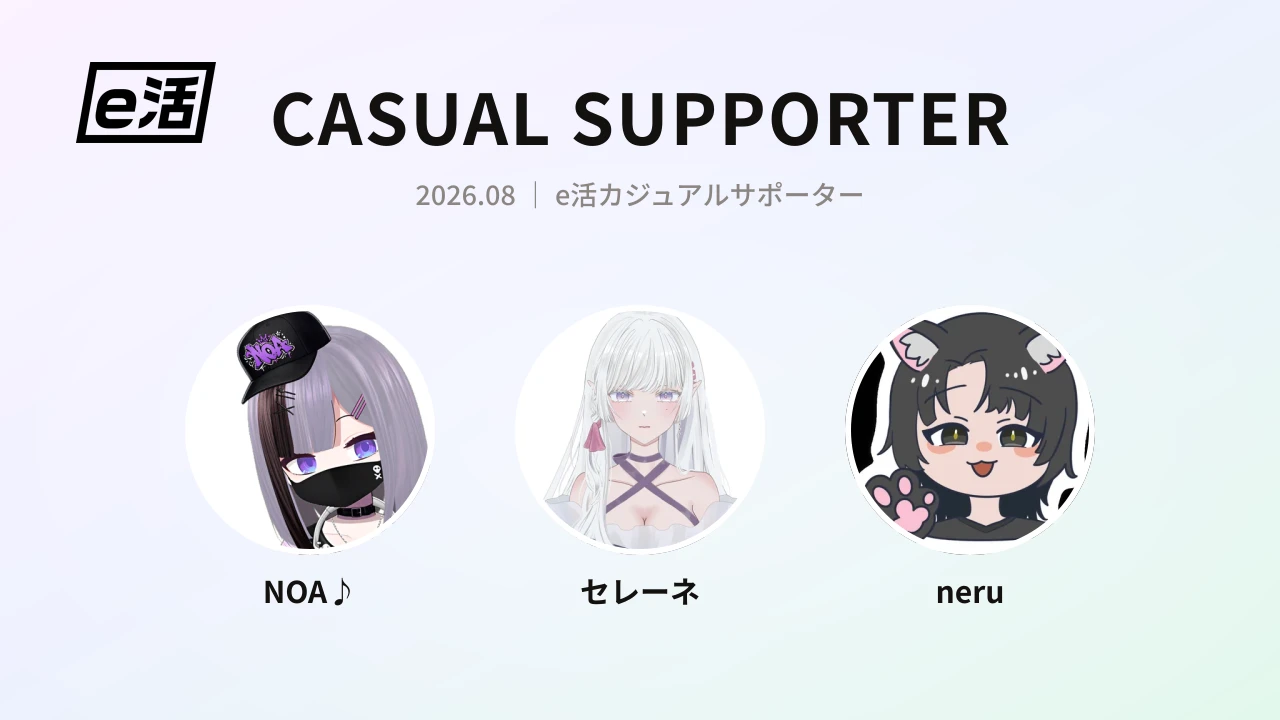
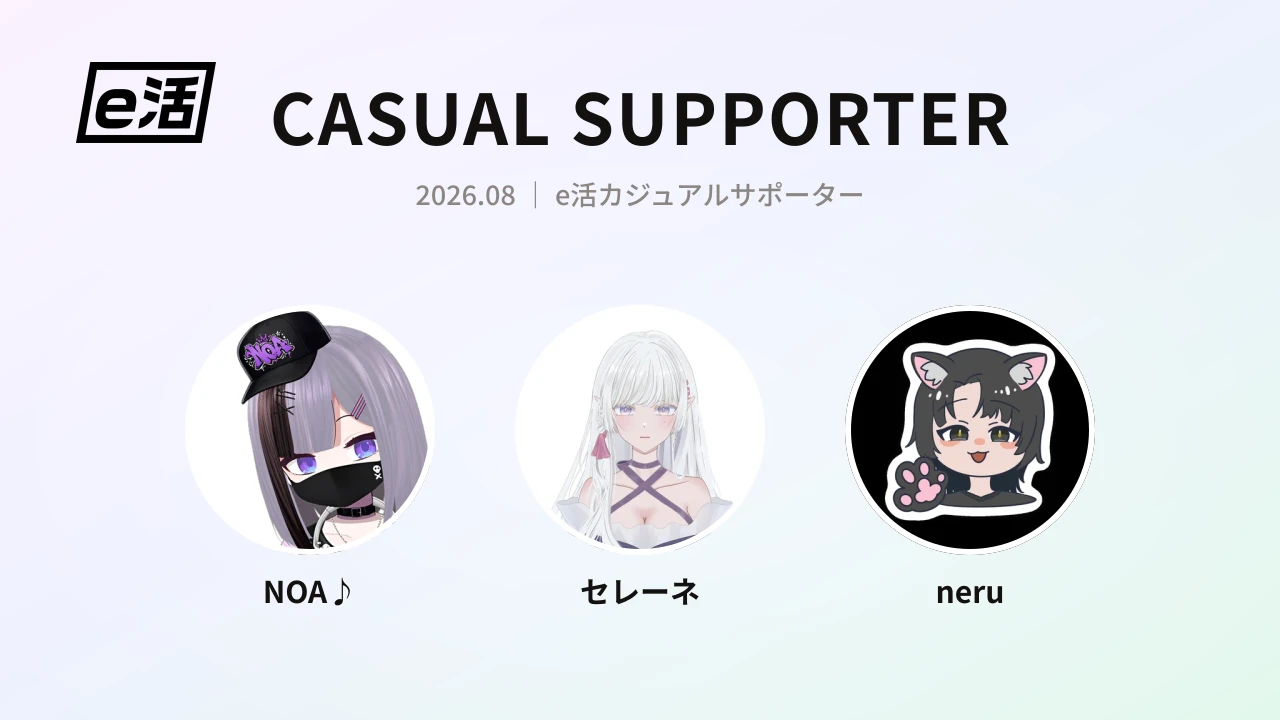
アイコンに丸表示用の余白(pad/padColor)を足せるようにして、セレーネとneruを切れないように直した

Changed region(s): [[0.6562, 0.4278, 0.875, 0.7639], [0.4062, 0.4278, 0.5625, 0.7639]]

diff --git a/tools/build-vtuber.js b/tools/build-vtuber.js
@@ -157,9 +157,14 @@ async function ensureIcon(drive, name, slug, crop) {
 
   // 立ち絵は縦長で顔が上のほうにある。そのまま正方形に切ると全身が入って顔が豆粒になるので、
   // 縦長さに応じて「顔＋肩」くらいの範囲に寄せる。他のアイコンと大きさの見え方を揃えるため。
-  //   crop で明示指定もできる（vtuber_meta.json の crop: {side, top, left} ＝ 縦の長さに対する割合）。
+  //   crop で明示指定もできる（vtuber_meta.json の crop: {side, top, left, pad} ＝ 縦の長さに対する割合）。
+  //
+  // ★アイコンはサイトでは「丸」で出る（style.css の .vt-card__photo が border-radius:50%）。
+  //   四角の四隅は必ず円に食われるので、四角で見て収まっていても角の絵は切れる。
+  //   角に大事なもの（帽子・耳・ロゴ）が来る絵は crop.pad で白い余白を足して、円の中へ押し込む。
+  //   pad ＝ 切り出した一辺に対する割合を四辺に足す（0.19 なら 843px → 1163px）。
   const meta = await sharp(buf).metadata();
-  const img = sharp(buf).flatten({ background: "#ffffff" });
+  let img = sharp(buf).flatten({ background: "#ffffff" });
   const { width: W, height: H } = meta;
   const ratio = H / W;
   if (crop || ratio > 1.15) {
@@ -181,6 +186,22 @@ async function ensureIcon(drive, name, slug, crop) {
     left = Math.max(0, Math.min(left, W - side));
     top = Math.max(0, Math.min(top, H - side));
     img.extract({ left, top, width: side, height: side });
+
+    // 丸に収めるための白い余白。
+    // ★sharpは書いた順ではなく「切り出し → 縮小 → 余白」の決まった順で処理する。
+    //   同じパイプラインに .extend() を足すと、いくら先に書いても縮小の"後"に付く。
+    //   （実際 400px のはずが 626px / 720px になった・2026-08-31）
+    //   だから余白を付け終わったところで一度バッファに落とし、そこから新しいパイプラインを始める。
+    const pad = Math.round(side * (crop && crop.pad ? crop.pad : 0));
+    if (pad > 0) {
+      // 余白の色。既定は白。元の絵に背景色が焼き付いている人（neru＝黒地のステッカー）は
+      // 白で足すと「白い丸の中に黒い四角」になるので、crop.padColor でその色に合わせる。
+      const padColor = (crop && crop.padColor) || "#ffffff";
+      const padded = await sharp(await img.png().toBuffer())
+        .extend({ top: pad, bottom: pad, left: pad, right: pad, background: padColor })
+        .png().toBuffer();
+      img = sharp(padded);
+    }
   }
   if (DRY) return { ok: true, picked: pick.name, dry: true };
   fs.mkdirSync(IMG_DIR, { recursive: true });
